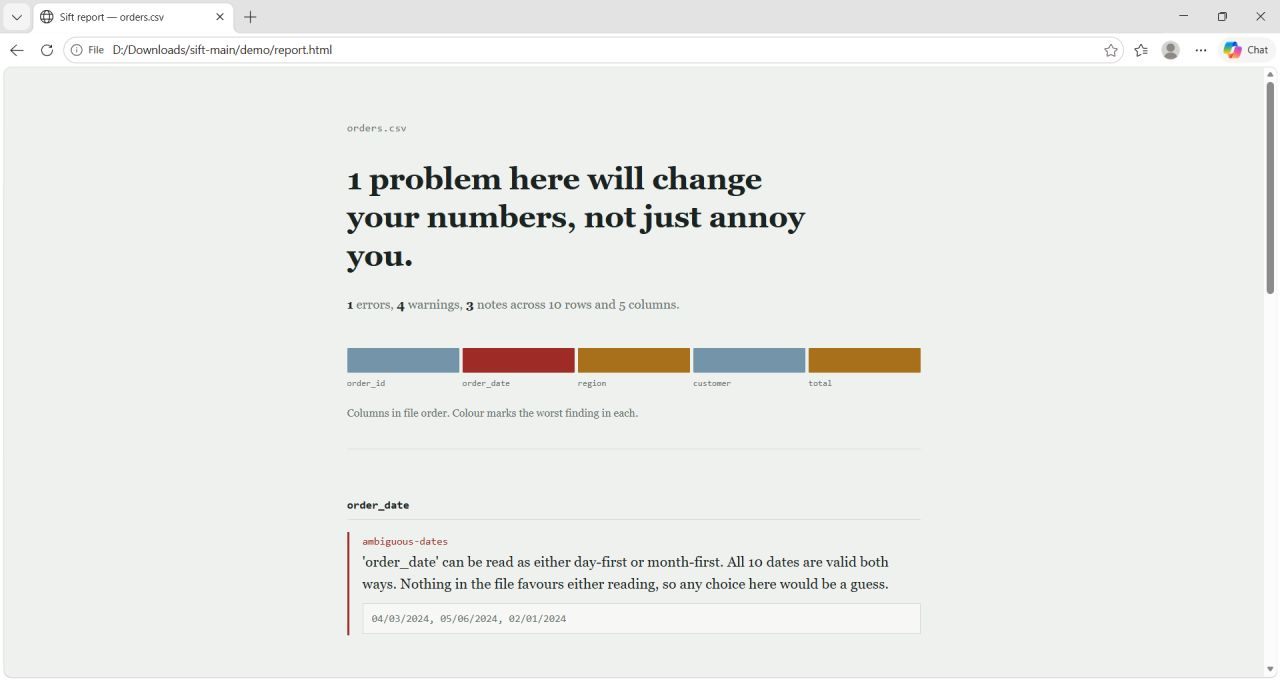
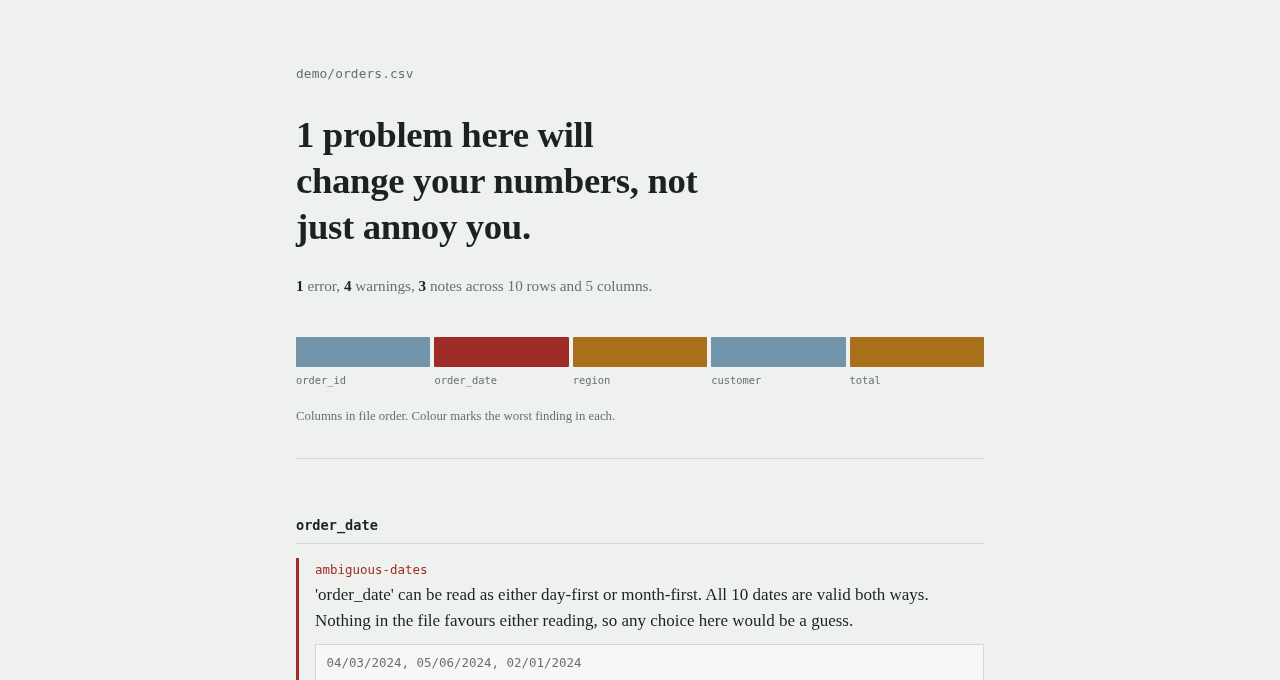
fix: correct HTML report count grammar

diff --git a/tests/test_release_readiness.py b/tests/test_release_readiness.py
@@ -9,6 +9,9 @@ from pathlib import Path
 import pytest
 
 from sift_lint import __version__
+from sift_lint.findings import Finding, Severity
+from sift_lint.loading import load
+from sift_lint.reporting import render_batch_html, render_html
 
 ROOT = Path(__file__).resolve().parents[1]
 
@@ -116,3 +119,60 @@ def test_documentation_relative_links_resolve() -> None:
                 if not (doc.parent / link).resolve().exists():
                     failures.append(f"{doc.relative_to(ROOT)}: {link}")
     assert not failures, "Broken relative links: " + ", ".join(failures)
+
+
+# Report counts are prose in HTML: check zero, singular, and plural for each level.
+
+def _html_count_table(tmp_path: Path, rows: int, columns: int):
+    path = tmp_path / "counts.csv"
+    path.write_text(
+        ",".join(f"column_{index}" for index in range(columns))
+        + "\n"
+        + (",".join("value" for _ in range(columns)) + "\n") * rows,
+        encoding="utf-8",
+    )
+    return load(path)
+
+
+@pytest.mark.parametrize("count", [0, 1, 2])
+@pytest.mark.parametrize("severity,word", [
+    (Severity.ERROR, "error"),
+    (Severity.WARNING, "warning"),
+    (Severity.INFO, "note"),
+])
+def test_single_report_html_count_grammar(tmp_path, count, severity, word):
+    table = _html_count_table(tmp_path, rows=1, columns=1)
+    findings = [
+        Finding(code=f"test-{i}", severity=severity, message="sample")
+        for i in range(count)
+    ]
+    output = render_html(table, findings)
+    expected = word if count == 1 else word + "s"
+    assert f"<b>{count}</b> {expected}" in output
+    assert "across 1 row and 1 column." in output
+
+
+@pytest.mark.parametrize("rows,columns", [(0, 1), (1, 1), (2, 2)])
+def test_html_row_column_counts(tmp_path, rows, columns):
+    table = _html_count_table(tmp_path, rows=rows, columns=columns)
+    output = render_html(table, [])
+    r = "row" if rows == 1 else "rows"
+    c = "column" if columns == 1 else "columns"
+    assert f"across {rows} {r} and {columns} {c}." in output
+
+
+@pytest.mark.parametrize("count", [0, 1, 2])
+@pytest.mark.parametrize("severity,word", [
+    (Severity.ERROR, "error"),
+    (Severity.WARNING, "warning"),
+    (Severity.INFO, "note"),
+])
+def test_batch_report_html_count_grammar(tmp_path, count, severity, word):
+    findings = [
+        Finding(code=f"test-{i}", severity=severity, message="sample")
+        for i in range(count)
+    ]
+    output = render_batch_html([(tmp_path / "input.csv", findings)], failures=[])
+    expected = word if count == 1 else word + "s"
+    assert f"{count} {expected}" in output
+    assert "<b>" not in output

diff --git a/sift_lint/reporting.py b/sift_lint/reporting.py
@@ -252,6 +252,21 @@ footer {
 """
 
 
+def _html_count(count: int, singular: str, *, bold: bool = False) -> str:
+    """Format a trusted count with correct singular/plural wording for HTML."""
+    value = f"{count:,}"
+    if bold:
+        value = f"<b>{value}</b>"
+    return f"{value} {singular if count == 1 else singular + 's'}"
+
+
+def _html_finding_tally(summary: dict[str, int], *, bold: bool = False) -> str:
+    return ", ".join(
+        _html_count(summary[key], label, bold=bold)
+        for key, label in (("error", "error"), ("warning", "warning"), ("info", "note"))
+    )
+
+
 def render_html(table: Table, findings: list[Finding]) -> str:
     summary = summarize(findings)
     esc = html.escape
@@ -305,9 +320,9 @@ def render_html(table: Table, findings: list[Finding]) -> str:
         )
 
     tally = (
-        f"<b>{summary['error']}</b> errors, <b>{summary['warning']}</b> warnings, "
-        f"<b>{summary['info']}</b> notes across {table.n_rows:,} rows and "
-        f"{len(table.columns)} columns."
+        f"{_html_finding_tally(summary, bold=True)} across "
+        f"{plural(table.n_rows, 'row')} and "
+        f"{plural(len(table.columns), 'column')}."
     )
 
     return f"""<!doctype html>
@@ -334,10 +349,7 @@ def render_batch_html(results: list[tuple[Path, list[Finding]]],
     sections = []
     for path, findings in results:
         summary = summarize(findings)
-        heading = (
-            f"{summary['error']} errors, {summary['warning']} warnings, "
-            f"{summary['info']} notes"
-        )
+        heading = _html_finding_tally(summary)
         entries = "".join(
             f'<div class="finding" data-sev="{f.severity.value}">'
             f'<div class="code">{esc(f.code)}</div>'
